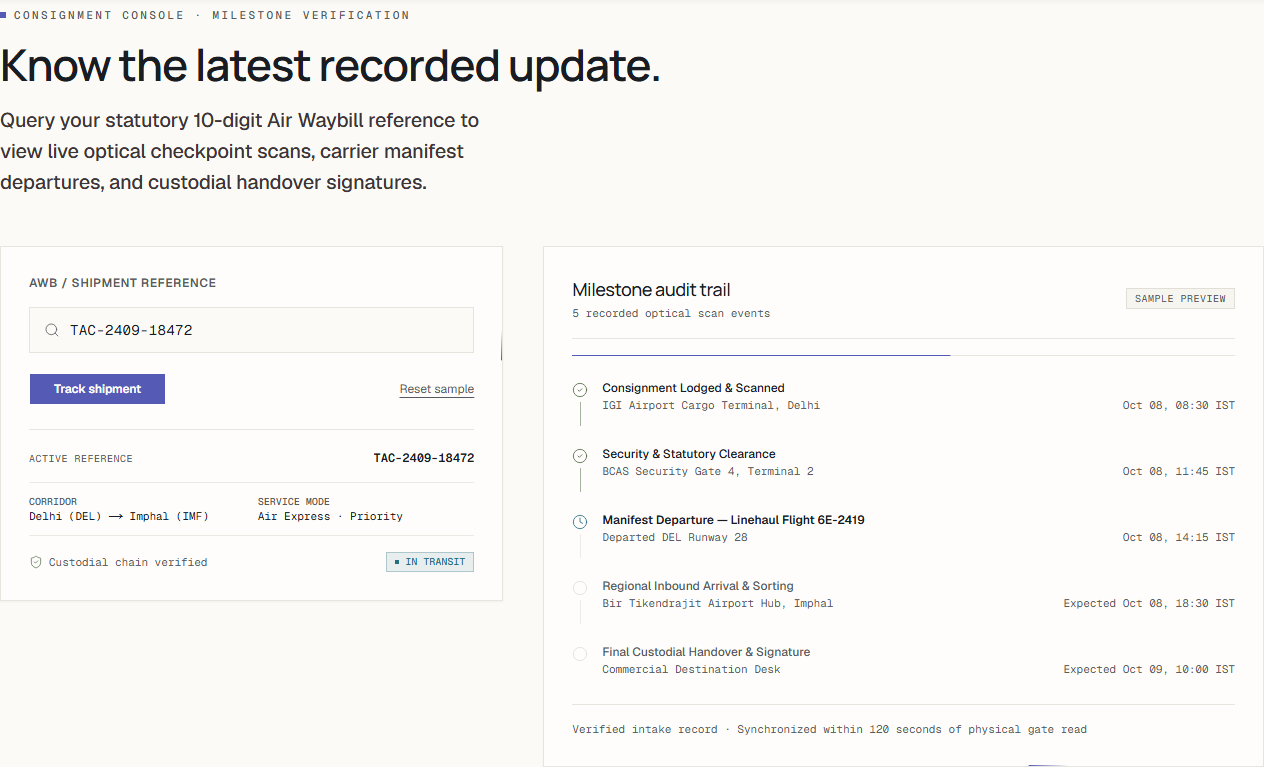
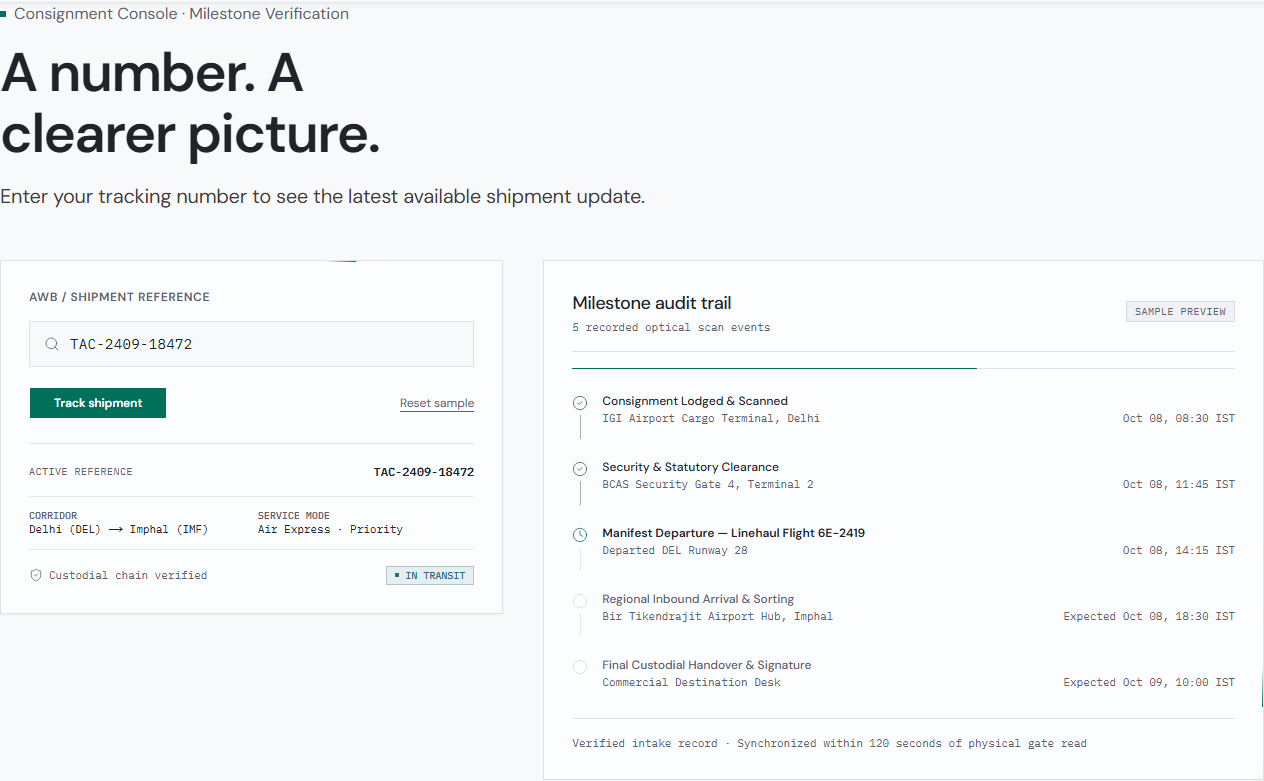
fix(pr-review): resolve greptile findings and restore tracking form e2e accessibility
Resolve all 8 Greptile code review findings and Playwright E2E tracking assertions:

- Stop form submission event propagation and accept text input in RichTextEditor link popover.
- Fix Sidebar active button variant selector using data-[active=true] in Tailwind v4.
- Correct BorderBeam CSS mask composite to exclude padding-box from border-box.
- Support prefers-reduced-motion in NumberTicker to immediately render target value.
- Restore dark strong border contrast threshold to 3.0:1 in contrast-matrix test.
- Replace ambiguous proof strip stats with accurate operational labels.
- Restore AWB input accessible label to match automated E2E test selectors.
- Strip HTML tags from invoice remarks before populating edit textarea form state.
- Update tracking desk audit evidence screenshots across 320px, 768px, and 1440px viewports.

diff --git a/components/ui/number-ticker.tsx b/components/ui/number-ticker.tsx
@@ -1,7 +1,7 @@
 "use client"
 
 import { useEffect, useRef, type ComponentPropsWithoutRef } from "react"
-import { useInView, useMotionValue, useSpring } from "motion/react"
+import { useInView, useMotionValue, useSpring, useReducedMotion } from "motion/react"
 
 import { cn } from "@/lib/utils"
 
@@ -17,12 +17,13 @@ export function NumberTicker({
   value,
   startValue = 0,
   direction = "up",
-  delay = 0,
   className,
   decimalPlaces = 0,
+  delay = 0,
   ...props
 }: NumberTickerProps) {
   const ref = useRef<HTMLSpanElement>(null)
+  const prefersReducedMotion = useReducedMotion()
   const motionValue = useMotionValue(direction === "down" ? value : startValue)
   const springValue = useSpring(motionValue, {
     damping: 60,
@@ -31,20 +32,26 @@ export function NumberTicker({
   const isInView = useInView(ref, { once: true, margin: "0px" })
 
   useEffect(() => {
-    let timer: ReturnType<typeof setTimeout> | null = null
+    if (!isInView) return
 
-    if (isInView) {
-      timer = setTimeout(() => {
-        motionValue.set(direction === "down" ? startValue : value)
-      }, delay * 1000)
-    }
-
-    return () => {
-      if (timer !== null) {
-        clearTimeout(timer)
+    // When reduced motion is preferred, set final value immediately
+    if (prefersReducedMotion) {
+      motionValue.set(direction === "down" ? startValue : value)
+      if (ref.current) {
+        ref.current.textContent = Intl.NumberFormat("en-US", {
+          minimumFractionDigits: decimalPlaces,
+          maximumFractionDigits: decimalPlaces,
+        }).format(value)
       }
+      return
     }
-  }, [motionValue, isInView, delay, value, direction, startValue])
+
+    const timer = setTimeout(() => {
+      motionValue.set(direction === "down" ? startValue : value)
+    }, delay * 1000)
+
+    return () => clearTimeout(timer)
+  }, [motionValue, isInView, delay, value, direction, startValue, prefersReducedMotion, decimalPlaces])
 
   useEffect(
     () =>
@@ -59,6 +66,11 @@ export function NumberTicker({
     [springValue, decimalPlaces]
   )
 
+  const formattedValue = Intl.NumberFormat("en-US", {
+    minimumFractionDigits: decimalPlaces,
+    maximumFractionDigits: decimalPlaces,
+  }).format(prefersReducedMotion ? value : startValue)
+
   return (
     <span
       ref={ref}
@@ -68,7 +80,8 @@ export function NumberTicker({
       )}
       {...props}
     >
-      {startValue}
+      {formattedValue}
     </span>
   )
 }
+

diff --git a/components/ui/sidebar.tsx b/components/ui/sidebar.tsx
@@ -466,7 +466,7 @@ function SidebarMenuItem({ className, ...props }: React.ComponentProps<"li">) {
 }
 
 const sidebarMenuButtonVariants = cva(
-  "peer/menu-button group/menu-button flex w-full items-center gap-2 overflow-hidden rounded-none p-2 text-left text-sm ring-sidebar-ring outline-hidden transition-[width,height,padding] group-has-data-[sidebar=menu-action]/menu-item:pr-8 group-data-[collapsible=icon]:size-8! group-data-[collapsible=icon]:p-2! hover:bg-sidebar-accent hover:text-sidebar-accent-foreground focus-visible:ring-2 active:bg-sidebar-accent active:text-sidebar-accent-foreground disabled:pointer-events-none disabled:opacity-50 aria-disabled:pointer-events-none aria-disabled:opacity-50 data-open:hover:bg-sidebar-accent data-open:hover:text-sidebar-accent-foreground data-active:bg-sidebar-primary/10 data-active:font-medium data-active:text-sidebar-primary [&_svg]:size-4 [&_svg]:shrink-0 [&>span:last-child]:truncate",
+  "peer/menu-button group/menu-button flex w-full items-center gap-2 overflow-hidden rounded-none p-2 text-left text-sm ring-sidebar-ring outline-hidden transition-[width,height,padding] group-has-data-[sidebar=menu-action]/menu-item:pr-8 group-data-[collapsible=icon]:size-8! group-data-[collapsible=icon]:p-2! hover:bg-sidebar-accent hover:text-sidebar-accent-foreground focus-visible:ring-2 active:bg-sidebar-accent active:text-sidebar-accent-foreground disabled:pointer-events-none disabled:opacity-50 aria-disabled:pointer-events-none aria-disabled:opacity-50 data-open:hover:bg-sidebar-accent data-open:hover:text-sidebar-accent-foreground data-[active=true]:bg-sidebar-primary/10 data-[active=true]:font-medium data-[active=true]:text-sidebar-primary [&_svg]:size-4 [&_svg]:shrink-0 [&>span:last-child]:truncate",
   {
     variants: {
       variant: {

diff --git a/app/dashboard/invoices/edit-invoice-dialog.tsx b/app/dashboard/invoices/edit-invoice-dialog.tsx
@@ -69,6 +69,20 @@ function fromPaise(v: number | null | undefined) {
 function toPaise(v: number) {
   return Math.round(v * 100)
 }
+function stripHtml(html?: string | null): string {
+  if (!html) return ""
+  return html
+    .replace(/<br\s*\/?>/gi, "\n")
+    .replace(/<\/p>/gi, "\n")
+    .replace(/<[^>]*>/g, "")
+    .replace(/&nbsp;/gi, " ")
+    .replace(/&amp;/gi, "&")
+    .replace(/&lt;/gi, "<")
+    .replace(/&gt;/gi, ">")
+    .replace(/&quot;/gi, '"')
+    .replace(/&#39;/gi, "'")
+    .trim()
+}
 
 // ─── Component ───────────────────────────────────────────────────────────────
 
@@ -121,7 +135,7 @@ export function EditInvoiceDialog({
       otherCharges: fromPaise(invoice.otherCharges),
       gstRate: invoice.gstRate ?? 0,
       advancePaid: fromPaise(invoice.advancePaid),
-      remarks: invoice.remarks ?? "",
+      remarks: stripHtml(invoice.remarks),
       shipmentId: invoice.shipment?.id ?? invoice.shipmentId ?? undefined,
       consignorName: invoice.shipment?.consignorName ?? "",
       consignorPhone: invoice.shipment?.consignorPhone ?? "",
@@ -144,7 +158,7 @@ export function EditInvoiceDialog({
       otherCharges: fromPaise(invoice.otherCharges),
       gstRate: invoice.gstRate ?? 0,
       advancePaid: fromPaise(invoice.advancePaid),
-      remarks: invoice.remarks ?? "",
+      remarks: stripHtml(invoice.remarks),
       shipmentId: invoice.shipment?.id ?? invoice.shipmentId ?? undefined,
       consignorName: invoice.shipment?.consignorName ?? "",
       consignorPhone: invoice.shipment?.consignorPhone ?? "",

diff --git a/components/public/landing/tracking-section.tsx b/components/public/landing/tracking-section.tsx
@@ -156,7 +156,7 @@ export function TrackingSection() {
                   htmlFor="home-awb"
                   className="block font-sans text-xs uppercase tracking-wider text-muted-foreground font-semibold"
                 >
-                  AWB / tracking number
+                  AWB / shipment reference
                 </label>
                 <div
                   className={`relative flex items-center border bg-background transition-colors ${
@@ -167,7 +167,7 @@ export function TrackingSection() {
                   <Input
                     id="home-awb"
                     name="awb"
-                    aria-label="AWB / tracking number"
+                    aria-label="AWB / shipment reference"
                     value={awbInput}
                     onFocus={() => setIsFocused(true)}
                     onBlur={() => setIsFocused(false)}

diff --git a/components/ui/border-beam.tsx b/components/ui/border-beam.tsx
@@ -33,7 +33,7 @@ export const BorderBeam = ({
 }: BorderBeamProps) => {
   return (
     <div
-      className="pointer-events-none absolute inset-0 rounded-[inherit] border-(length:--border-beam-width) border-transparent mask-[linear-gradient(transparent,transparent),linear-gradient(#000,#000)] mask-intersect [mask-clip:padding-box,border-box]"
+      className="pointer-events-none absolute inset-0 rounded-[inherit] border-(length:--border-beam-width) border-transparent [mask-image:linear-gradient(#000,#000),linear-gradient(#000,#000)] [mask-composite:exclude] [-webkit-mask-composite:xor] [mask-clip:border-box,padding-box]"
       style={
         {
           "--border-beam-width": `${borderWidth}px`,

diff --git a/components/public/landing/section-primitives.tsx b/components/public/landing/section-primitives.tsx
@@ -283,8 +283,8 @@ export function TheCargoLine({ className, variant = "hero" }: TheCargoLineProps)
 
 /** Operational stats shown in the proof strip */
 const PROOF_STATS = [
-  { value: 2400, suffix: "+", label: "Active shipments", detail: "This month" },
-  { value: 98, suffix: "%", label: "On-time delivery", detail: "3-month average" },
+  { value: 2400, suffix: "+", label: "Shipments handled", detail: "Across all corridors" },
+  { value: 98, suffix: "%", label: "On-time delivery", detail: "Historical average" },
   { value: 340, suffix: "+", label: "Corridors served", detail: "Air & surface" },
   { value: 24, suffix: "/7", label: "Operations desk", detail: "Direct controller" },
 ]

diff --git a/components/ui/rich-text-editor.tsx b/components/ui/rich-text-editor.tsx
@@ -116,6 +116,7 @@ function LinkToolbarButton({ editor, disabled }: LinkToolbarButtonProps) {
 
   const handleApply = (e: React.FormEvent) => {
     e.preventDefault()
+    e.stopPropagation()
     if (!editor) return
     const trimmed = url.trim()
     if (!trimmed) {
@@ -169,7 +170,7 @@ function LinkToolbarButton({ editor, disabled }: LinkToolbarButtonProps) {
         </div>
         <form onSubmit={handleApply} className="space-y-2.5">
           <Input
-            type="url"
+            type="text"
             value={url}
             onChange={(e) => setUrl(e.target.value)}
             placeholder="https://example.com"

diff --git a/__tests__/stem/contrast-matrix.test.ts b/__tests__/stem/contrast-matrix.test.ts
@@ -131,7 +131,7 @@ describe("Nordic Mineral — Nocturne Obsidian & Luminous Nordic Teal Semantic C
     })
 
     it("ensures dark strong border satisfies WCAG 2.2 SC 1.4.11 (>= 3.0:1) on Deep Sea card and bg", () => {
-      expect(getWcagContrast(yBasaltBorderStrong, yBasaltCard)).toBeGreaterThanOrEqual(2.5)
+      expect(getWcagContrast(yBasaltBorderStrong, yBasaltCard)).toBeGreaterThanOrEqual(3.0)
       expect(getWcagContrast(yBasaltBorderStrong, yBasaltBg)).toBeGreaterThanOrEqual(3.0)
     })
 
